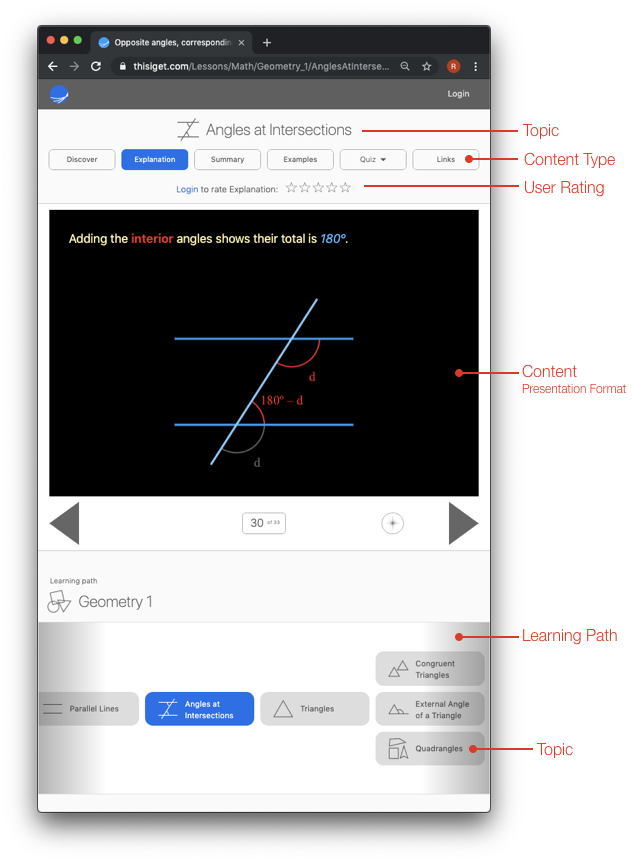
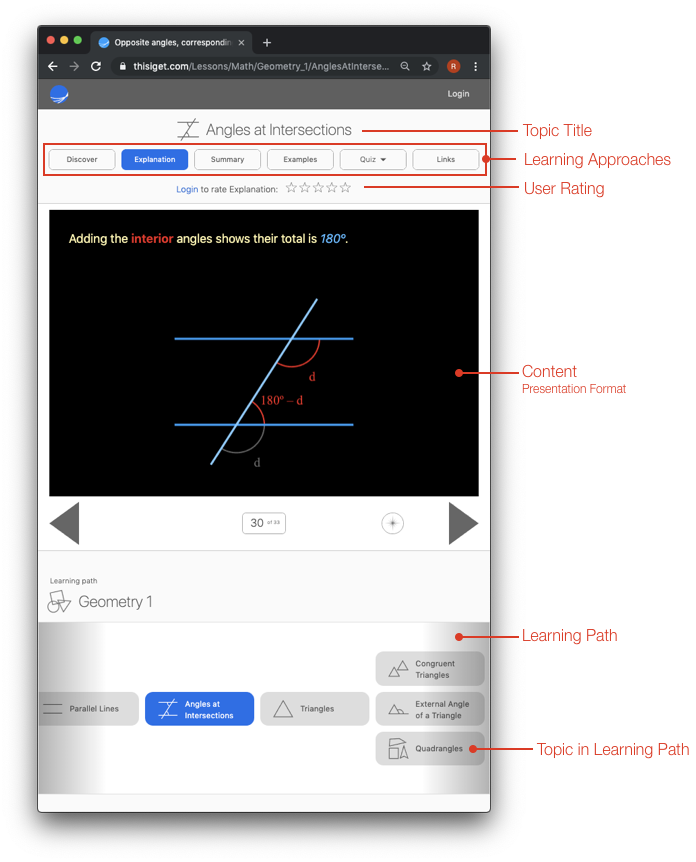
update introduction and about

diff --git a/src/js/views/information/information.scss b/src/js/views/information/information.scss
@@ -47,12 +47,13 @@ h1 {
   // margin-top: 2em;
   font-weight: 200;
   font-size: 2.5em;
+  text-align: center
   // margin-bottom: 1em;
 }
 
 h2 {
   margin-top: 1.5em;
-  font-weight: 100;
+  font-weight: 400;
   font-size: 1.8em;
 }
 
@@ -62,9 +63,9 @@ h3 {
   font-weight: 500;
 }
 
-// h2:first-of-type {
-//   margin-top: 0.5em;
-// }
+h2:first-of-type {
+  margin-top: 0.5em;
+}
 
 // blockquote {
 //   font-style: italic;

diff --git a/src/js/views/information/introduction.md b/src/js/views/information/introduction.md
@@ -1,32 +1,32 @@
 # Introduction
 
-Many sources of information (textbooks, videos, websites) will present content in one way. If the content is not clear for a user, it is up to them to search for other sources of the same information that might be more useful for them.
+Many sources of information such as textbooks, videos and websites will present content in one way particular to that source. If the content is not clear for a learner, it is up to them to search for other sources of the same information that might be more useful.
 
-In contrast, this site tries to present several approaches and versions of the same content to a user, including links to external sources of similar information, so they have a higher chance of successfully learning what they were seeking. Each version of content and external link can be rated by the users, to further assist them, and others, in more efficiently learning.
+In contrast, this site tries to present several versions of the same content to a learner, including links to external sources of similar information. Each version of content and external link can be rated by the learners. The hope is learners will more quickly find a version of content that works for them, allowing them to learn more efficiently.
 
-This page details the site's terminology and features as a way to introduce what the site is.
+This page highlights the site's features as a way to introduce what the site is and how to use it.
 
-## Terminology
+## Typical Content
 
 Below is a screenshot of a typical page on this site with some areas labeled.
 
 ![](example.png)
 
 ### Topic
-A “Topic” is the site’s fundamental unit, and represents a piece of knowledge, a concept or a procedure. It has associated "Content" that describes or uses the knowledge, concept or procedure. The knowledge required to understand a topic, and the desired learnings from having reviewed the topic's content should be well defined.
+A “Topic” is the site’s fundamental unit, and represents a piece of knowledge, a concept or procedure. It has associated "Content" that describes or explores the topic. The knowledge required to understand a topic, and the desired learnings from having reviewed the topic's content should be well defined.
 
-In the diagram above the selected topic is "Angles at Intersections". The topic covers the concepts of opposite, corresponding, alternate and interior angles. It requires the knowledge of the "Parallel Lines" topic (and other topics before it), and leads to understanding the "Triangles" topic.
+In the diagram above, the selected topic is titled "Angles at Intersections". This topic covers the geometric concepts of opposite, corresponding, alternate and interior angles. It requires the knowledge of the "Parallel Lines" topic (and other topics before it), and leads to understanding the "Triangles" topic.
 
-### Content Type:
-The content of each topic can be covered using different approaches. These approaches are classified into Content Types as:
+### Learning Approach:
+Different approaches can be used to cover the topic's content. Most commonly, these approaches are:
 
-* Discover - a problem statement is given with progressively more hints to allow the user to discover the content
-* Explanation - a complete description of the content
-* Summary - what you need to know to move onto the next topic
-* Examples - examples showing where and how to use the content
-* Quiz - practice using the content
+* Discover - a problem statement is given with progressively more hints to allow the user to discover the topic
+* Explanation - a complete description of the topic
+* Summary - key concepts or knowledge the topic covers
+* Examples - examples showing where and how to use the topic
+* Quiz - practice using the topic's concepts and knowledge
 * TA - interactive diagrams that might be useful in a teaching environment
-* Links - a selection of external links that also address the same content in different ways or from different perspectives
+* Links - a selection of external links that address the same topic content in different ways or from different perspectives
 
 ### Content Version:
 
@@ -37,7 +37,7 @@ There are several ways to describe or present content using the same approach. F
 * have interactive content or be completely static
 * be presented as video, audio, presentation slides or text
 * use one line of reasoning or proof, instead of another
-* completely cover the topic, or focus just on one area
+* completely cover the topic, or focus on just one area
 
 An example of different versions is below. In this case the topic "Right Angle Triangles" has an "Explanation" with two different versions: "Full Explanation" and "Derivation of Pythagorean Theorm". In this case, the first version covers the entire topic, while the second version focuses on just a portion of the topic.
 
@@ -45,27 +45,27 @@ An example of different versions is below. In this case the topic "Right Angle T
 
 
 ### Rating:
-Each version of content, and external links, can be rated by a user between 1 and 5. The user can use their own judgement when rating content, but one way might be:
-* 5 - The content really clicks with the user from start to finish
+Each version of content and external link, can be rated by a learner between 1 and 5. The learner can use their own judgement when rating content, but one way might be:
+* 5 - The content really resonates with the learner from start to finish
 * 4 - The content is well done, but there a few areas that weren’t clear
-* 3 - The content is good, but other versions of it were reviewed/needed to fully get it
-* 2 - It is difficult to understand, and doesn’t really work for the user
+* 3 - The content is good, but other versions were needed to fully get it
+* 2 - The content is difficult to understand, and doesn’t really work for the learner
 * 1 - The content was not helpful
 
-Ratings are personal. Some content will get a 5 from some users, and a 1 from other users. Even if content only gets high ratings from a small percentage of users, it is still valuable and appreciated. The fact it helped some people is fantastic, as other more popular versions of the content might not have been helpful for them.
+Ratings are personal. A version of content may get a 5 from some learners, and a 1 from others. Even if content only gets high ratings from a small percentage of learners, it is still valuable and appreciated. The fact it helped some people is fantastic, as other more popular versions of the content might not have been as helpful for them.
 
-Users can see two ratings for each version of content:
+Learners can see two ratings for each version of content:
 * Their own rating
 * The number of people that gave a rating of 4 or 5
 
-The intent here is to celebrate all lessons that help users, and not degrade from those that help only a smal percentage.
+The intent here is to celebrate all versions that help learners, and not degrade from those that help only a small percentage.
 
 Whether this can be realized is not clear, and this will likely be experimented with over time.
 
 ### Learning Path:
 A learning path is a set of topics that follow each other based on the dependence of their content.
 
-At the start of the path (the first topic) a set of knowledge is assumed. But after that point, each topic covers all knowledge that future topics in the path will require.
+A set of knowledge is assumed for the first topic at the start of the path. But after that point, each topic covers all knowledge that future topics in the path will require.
 
 
 ## Content Format
@@ -76,9 +76,8 @@ There are several ways content is currently formatted on the site.
 
 The presentation format allows:
 * Gradual introduction of content
-* Interactive diagrams whose interactively changes with the slide context
+* Interactive diagrams
 * Equation animation that can show clear progression through equation forms
-* Users can progress through the content at their own pace
 
 An example of presentation format is below. Arrows to the side or beneath the content allow for slide to slide navigation. Touching the slide number allows jumping between sections.
 

diff --git a/src/js/views/information/about.md b/src/js/views/information/about.md
@@ -1,19 +1,21 @@
 # About This I Get
 
-## Goal
+<!-- ## Goal
 
 Be inclusive.
-
+ -->
 ## Learning
 There are many ways to learn.
 
-People’s individual experiences, knowledge, language, context and personality mean some ways work better for some people and other ways work better for others.
+People’s individual experiences, knowledge, language, context and personality mean different ways work better different people.
 
 How the learning is to be applied also changes which way might be most effective. Sometimes practice is the most efficient or most appropriate way to learn, other times having a deep understanding is required.
 
 Even time can play a role. As someone becomes a more experienced learner, their preference for how they learn may evolve.
 
-Some examples of the different ways to learn include:
+So what are the different ways to learn? One way to categorize them is by approach, style and participation.
+
+Some examples of different learning approaches are:
 
 * by discovery - knowing about a problem, and being challenged to come up with a concept to understand it better, or a tool to solve it
 * by explanation - a description of what and why something is
@@ -21,18 +23,21 @@ Some examples of the different ways to learn include:
 * by practice - using that thing repeatedly
 * or by a combination of ways
 
-Each of these ways can be delivered in different styles. For example an explanation might be:
+Each of these approaches can be delivered in different styles. For example an explanation might be:
 
 * precise or intuitive
 * brief or descriptive
 * general or personalized
+* visual or text based
+* interactive or static
 * or a combination of styles
 
 And then there are different ways to participate in the learning, such as:
 
 * in person
-* or from media such as text and videos
-* or as part of a group working toward a project or goal
+* from media such as text and videos
+* as part of a group working toward a project or goal
+* or a combination of ways
 
 So there are many ways to learn, and no one place or person can do everything for everyone.
 
@@ -45,15 +50,15 @@ There has never before been more resources and opportunities available for someo
 
 But as a learner, how do you decide where to spend time learning? Time is a finite resource. The more efficiently you learn, the sooner you can use those learnings.
 
-As a teacher, how do you decide how to teach? What assumptions do you make about your learner? For whom do those assumptions not apply?
+Similarly from the teacher's perspective, how do you decide how to teach? What assumptions do you make about your learner? For whom do those assumptions not apply?
 
-So instead of selecting a particular approach, this site tries to embrace many of the diverse possibilities. It does this through:
+So instead of selecting a particular way to learn, this site tries to embrace many of the diverse possibilities. It does this through:
 
-* Having multiple approaches and versions of the same content
-* Allowing users to rate which approaches and versions of content work best for them
+* Having multiple versions of the same content, covering different approaches and styles
+* Allowing users to rate which versions of the content work best for them
 * Embracing external content and allowing users to rate it
 
-In the short term, having multiple approaches, versions and external links describing the same content in different ways will hopefully be a useful resource. Rating the content might be valuable to a learner so if they review it again, they know what they connected with best.
+In the short term, having multiple approaches, styles and external links describing the same content in different ways will hopefully be a useful resource. Rating the content might be valuable to a learner so if they review it again, they know what they connected with best.
 
 In the longer term as more content is rated, users may be able to get a more personalized and efficient experience by having content that is more likely to resonate with them presented first.
 
@@ -61,9 +66,9 @@ In the longer term as more content is rated, users may be able to get a more per
 ## More Information
 
 [Introduction](/introduction) - Introduction to the the site and how to use it.
-
+<!-- 
 [Privacy](/privacy) - The privacy policy of www.thisiget.com.
 
 [Copyright](/copyright) - Licensing and copyright information for the site and content.
-
+ -->
 [Contact](/contact) - Contact information for feedback.

diff --git a/src/js/views/information/privacy.md b/src/js/views/information/privacy.md
@@ -1,6 +1,6 @@
 # Privacy Policy
 
-This privacy policy discloses the privacy practices for **This I Get LLC** the owner of this website, www.thisiget.com. This privacy policy applies solely to information collected by this website, and will explain what information is collected and why.
+This privacy policy discloses the privacy practices for this website, www.thisiget.com. This privacy policy applies solely to information collected by this website, and will explain what information is collected and why.
  
 The topics in this policy are:
 * [Summary](#summary)
@@ -19,7 +19,7 @@ The topics in this policy are:
 You can access all content on this website anonymously, sharing only the default information provided by your browser. This information includes browser type and version, IP address and sometimes the type of device the browser is on. It is used by the website to understand and optimize website use and performance, but not to identify you.
 
 
-If you want to rate content, then an account needs to be created, and you need to be logged into the account. To create an account, you need to provide a valid username, email address and password. This information is used to manage your account, and ensures only you can access your content ratings. You can provide any valid username, email address and password, and thus remain anonymous.
+If you want to rate content, then an account needs to be created, and you need to be logged into the account. To create an account, you need to provide a username, email address and password. This information is used to manage your account, and ensures only you can access your content ratings. You can provide any valid username, email address and password, and thus remain anonymous.
 
 When you have an account, and are logged in, additional information including when you created the account, when you last logged in, and content rating information is stored. This information is used for account management, helping the website understand how many active users there are for performance optimization, allowing you to see your ratings of content in the future, and provding statistcal summaries of content to all users.
 

diff --git a/src/js/views/information/contact.md b/src/js/views/information/contact.md
@@ -1,3 +1,3 @@
-Contact
+# Contact
 
-<a href="mailto:feedback@thisiget.com?Subject=Feedback" className="footer__item__label">Here</a>
+All questions and feedback can be sent to <a href="mailto:feedback@thisiget.com?Subject=Feedback" className="footer__item__label">feedback@thisiget.com</a>.
